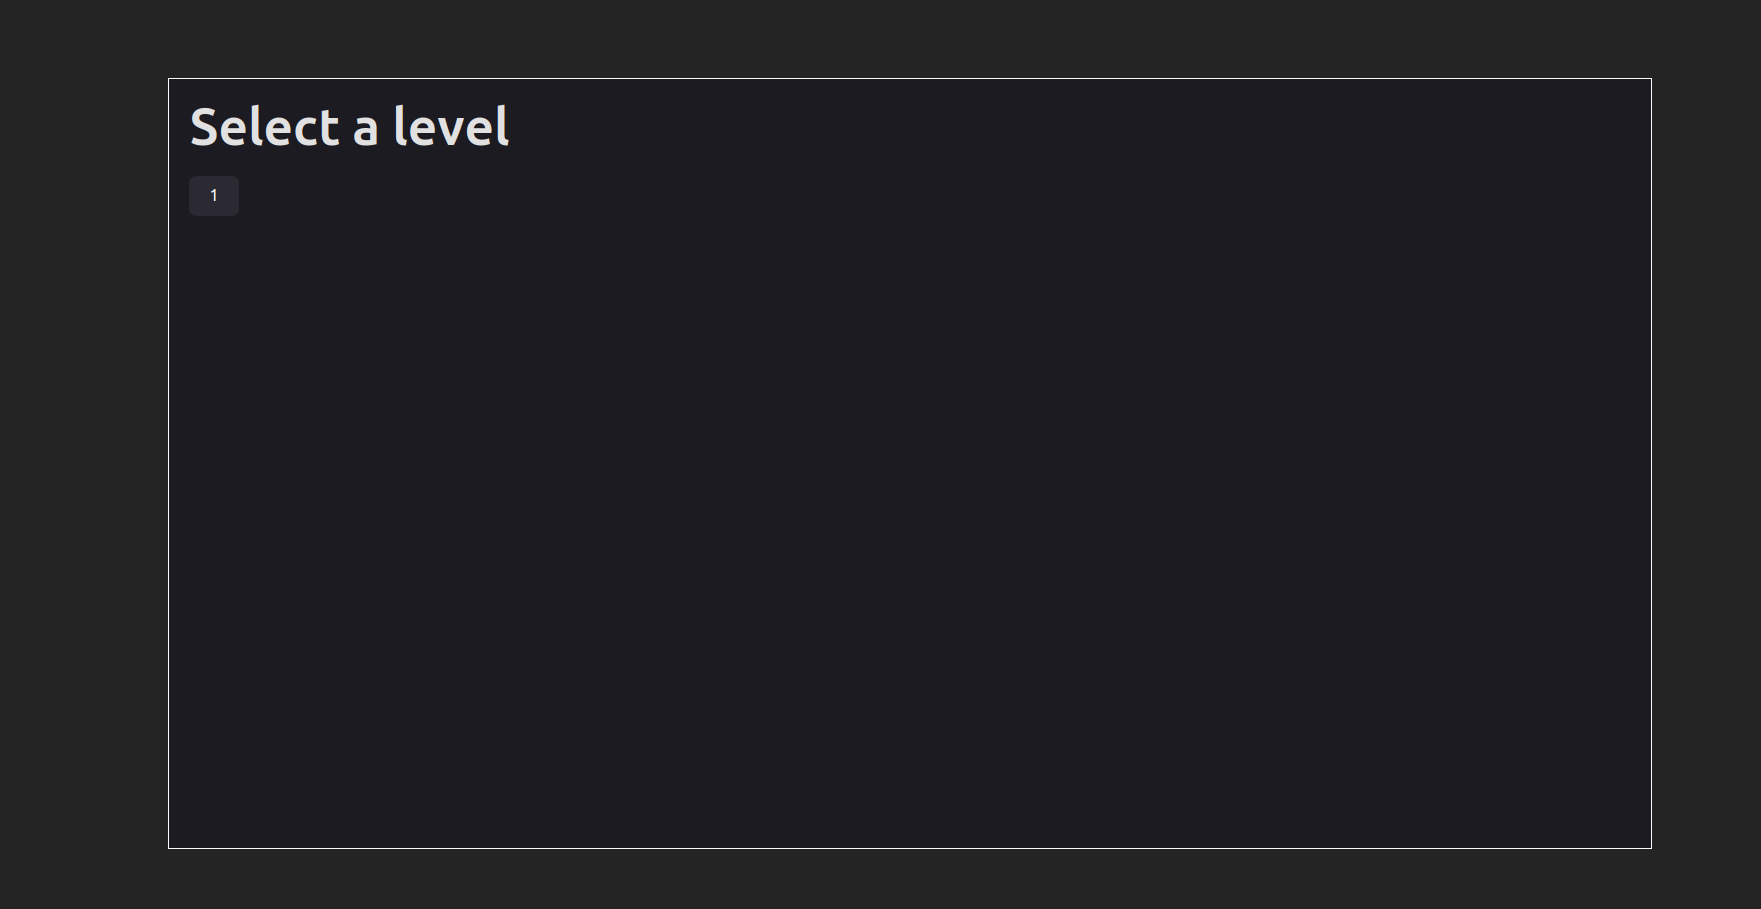
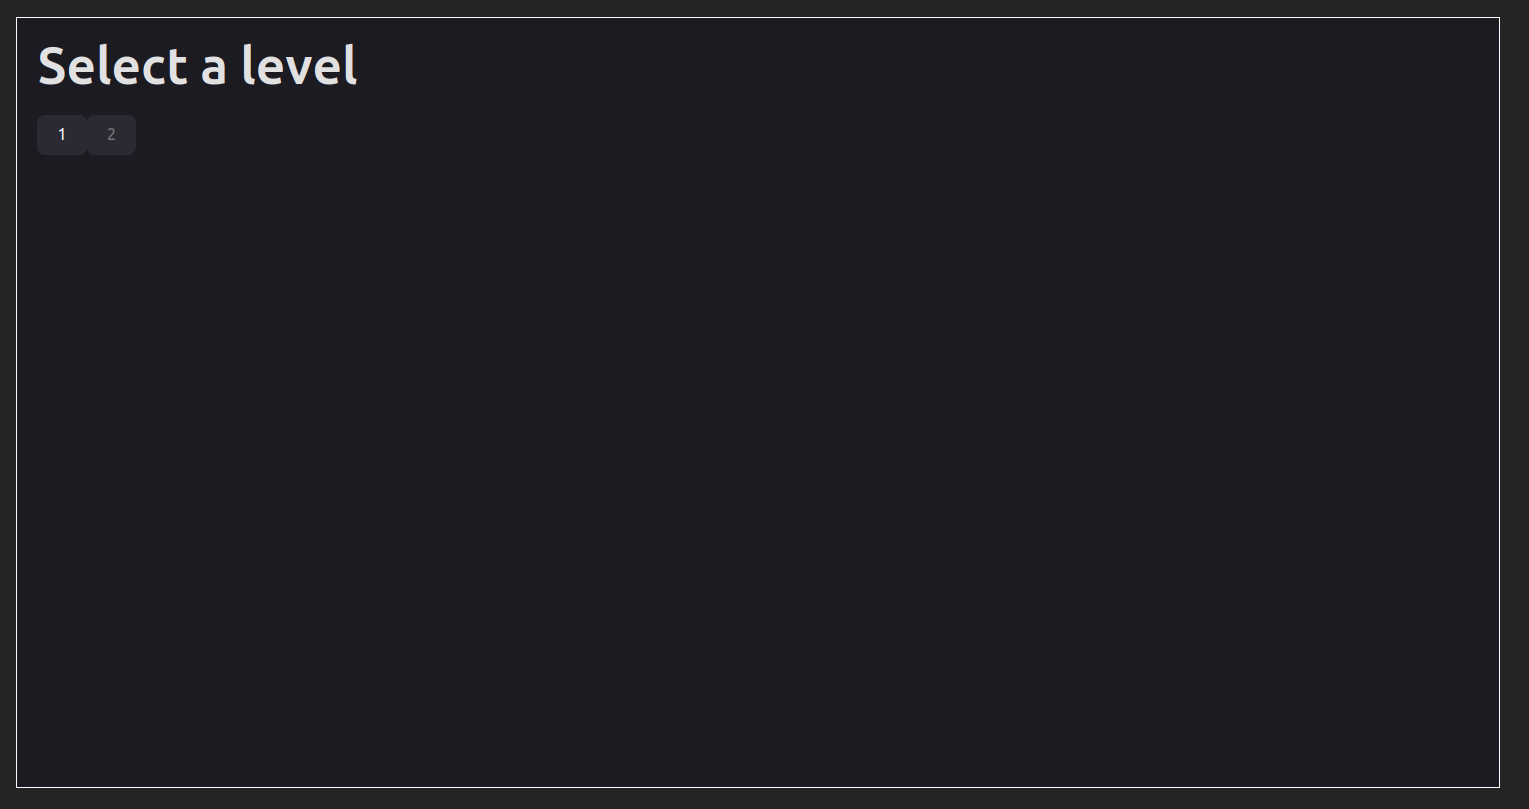
Latest project state

Changed region(s): [[0.0, 0.0618, 0.3074, 0.1854]]

diff --git a/docs/index.md b/docs/index.md
@@ -42,6 +42,14 @@ The level selection screen allows players to pick levels to play. A level is onl
 The programming screen is where the player can choose to place nodes
 The solution displayed in the graph is the intended solution for level 1.
 
+The following nodes can be used:
+
+1. Sensor node: Can be configured to select a specific sensor (currently only 1 possibility). When code is executed, this node spits out the most deviating temperature reading in its radius. 
+2. Number node: This node continuously spits out the number it is provided with. 
+3. IfGreater node: It spits out a 1 if a > b, and 0 otherwise. 
+4. Additive node: It spits out a + b. 
+5. Controller node: If its input is >= 1, it activates. Otherwise, it deactivates. If a controller is active, it ensures that a farm next to it always has safe temperature readings. However, it subtracts from score and coins when running and can cause game over if the coins go below 0. 
+
 ## The game screen
 
 ![Game screen](./assets/simulation.png)
